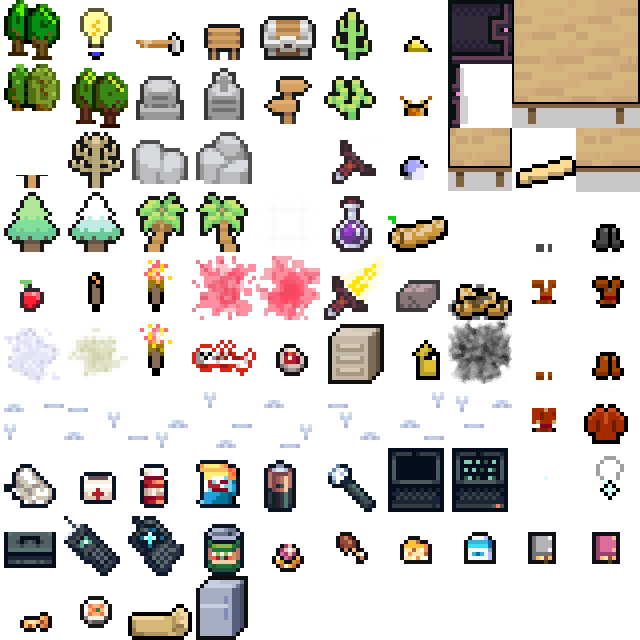
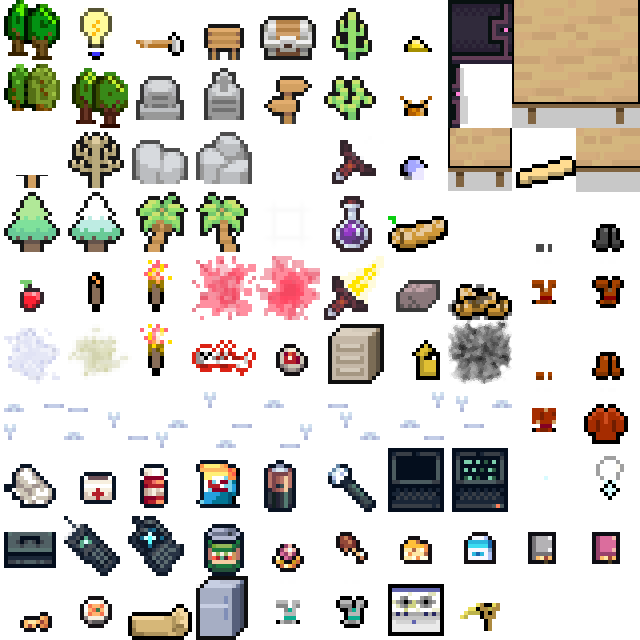
more AI

Changed region(s): [[0.5312, 0.9062, 0.7812, 1.0], [0.4375, 0.9375, 0.4688, 1.0]]

diff --git a/src/main/kotlin/actors/Ratman.kt b/src/main/kotlin/actors/Ratman.kt
@@ -2,7 +2,10 @@ package actors
 
 import actors.actions.Action
 import actors.actions.Wait
+import actors.states.Idle
 import actors.states.IdleInRoom
+import actors.states.Looting
+import actors.states.Seeking
 import actors.stats.Brains
 import actors.stats.Speed
 import actors.stats.Strength
@@ -11,7 +14,9 @@ import actors.stats.skills.Fight
 import audio.Speaker
 import kotlinx.serialization.Serializable
 import render.tilesets.Glyph
+import things.Cheese
 import things.Teeth
+import things.Thing
 import util.Dice
 
 @Serializable
@@ -38,12 +43,26 @@ class Ratman(
         "Ttthhhee rebelliouthh one!  Killl him!",
         "You dare to defy $wizardName?  Die!",
         "The ethhcaped thhlave!  He itthh here!",
-        "The penalty for escape is death!"
+        "The penalty for ethcape ith death!"
     )
     override fun talkSound(actor: Actor) = Speaker.SFX.RAT
     override fun meetPlayerMsg() = this.dnamec() + " says, \"" + converseLines().random() + "\""
-
+    fun findCheeseLines() = listOf(
+        "Arrgg cheethe!  I can't rethithht!",
+        "What?!  Cheethe rationth!",
+        "Unclaimed cheethe!  I'll take that."
+    )
 
     override fun idleState() = IdleInRoom()
 
+    override fun considerState() {
+        if (state !is Looting) {
+            val cheeses = entitiesSeen { it is Cheese }
+            if (cheeses.isNotEmpty()) {
+                val cheese = cheeses.keys.random()
+                pushState(Looting(cheese.xy()!!, (cheese as Thing).thingTag()))
+                say(findCheeseLines().random())
+            }
+        }
+    }
 }

diff --git a/src/main/kotlin/actors/states/Looting.kt b/src/main/kotlin/actors/states/Looting.kt
@@ -1,0 +1,55 @@
+package actors.states
+
+import actors.NPC
+import actors.actions.Action
+import actors.actions.Get
+import things.Thing
+import util.XY
+import util.hasOneWhere
+import util.log
+import world.level.Level
+import world.path.Pather
+
+// Trying to get a known seen item.
+class Looting(
+    val targetXY: XY,
+    val thingTag: String
+) : State() {
+
+    override fun enter(npc: NPC) {
+        Pather.subscribe(npc, npc, npc.visualRange())
+    }
+
+    override fun leave(npc: NPC) {
+        Pather.unsubscribe(npc, npc)
+    }
+
+    override fun considerState(npc: NPC) {
+        npc.apply {
+            if (!stillThere(level)) {
+                popState()
+            }
+        }
+    }
+
+    override fun pickAction(npc: NPC): Action {
+        npc.apply {
+            if (xy() == targetXY) {
+                log.info("found loot")
+                popState()
+                theThing(level)?.also { return Get(it) }
+            } else {
+                stepToward(targetXY)?.also { return it }
+            }
+            //popState()
+        }
+        return super.pickAction(npc)
+    }
+
+    private fun stillThere(level: Level?): Boolean =
+        level?.thingsAt(targetXY.x, targetXY.y)?.hasOneWhere { it.thingTag() == thingTag } ?: false
+
+    private fun theThing(level: Level?): Thing? =
+        level?.thingsAt(targetXY.x, targetXY.y)?.firstOrNull { it.thingTag() == thingTag }
+
+}

diff --git a/src/main/kotlin/actors/NPC.kt b/src/main/kotlin/actors/NPC.kt
@@ -19,6 +19,8 @@ sealed class NPC : Actor() {
     @Transient val hibernateRadius = 40f
 
     var state: State = Hibernated()
+    val stateStack = Stack<State>()
+
     var hostile = false
     var metPlayer = false
     val placeMemory = mutableMapOf<String,XY>()
@@ -73,9 +75,12 @@ sealed class NPC : Actor() {
             changeState(Hibernated())
         } else {
             val oldState = state
-            considerState()
+            statuses.forEach { it.considerState(this) }
             if (oldState == state) {
-                state.considerState(this)
+                considerState()
+                if (oldState == state) {
+                    state.considerState(this)
+                }
             }
         }
     }
@@ -89,6 +94,19 @@ sealed class NPC : Actor() {
         enterStateMsg(newState)?.also { Console.sayAct("", it, this) }
         log.info("NPC $this becomes $newState")
         newState.enter(this)
+    }
+
+    fun pushState(newState: State) {
+        stateStack.push(state)
+        changeState(newState)
+    }
+
+    fun popState() {
+        stateStack.pop()?.also {
+            changeState(it)
+        } ?: run {
+            changeState(idleState())
+        }
     }
 
     open fun enterStateMsg(newState: State): String? = when (newState) {

diff --git a/src/main/kotlin/world/cartos/LevelCarto.kt b/src/main/kotlin/world/cartos/LevelCarto.kt
@@ -46,13 +46,13 @@ class LevelCarto(
                 if (Dice.chance(0.6f)) {
                     addThing(Dice.range(room.x0, room.x1), Dice.range(room.y0, room.y1), if (Dice.chance(0.7f)) FilingCabinet() else Fridge())
                 }
-                if (Dice.chance(0.7f)) {
+                if (Dice.chance(0.1f)) {
                     Ratthing().spawnAt(level, Dice.range(room.x0, room.x1), Dice.range(room.y0, room.y1))
                 }
                 if (Dice.chance(0.4f) && building is WizardDungeon) {
                     Thrall(building.wizardName).spawnInRoom(level, room)
                 }
-                if (Dice.chance(0.1f) && building is WizardDungeon) {
+                if (Dice.chance(0.8f) && building is WizardDungeon) {
                     Ratman(building.wizardName).spawnInRoom(level, room)
                 }
 

diff --git a/src/main/kotlin/world/path/StepMap.kt b/src/main/kotlin/world/path/StepMap.kt
@@ -61,6 +61,10 @@ class StepMap() {
 
     fun setTargetToEntity(newTarget: Entity) {
         targetEntity = newTarget
+        val centerX = width / 2 + 1
+        val centerY = height / 2 + 1
+        offsetX = targetEntity!!.xy()!!.x - centerX
+        offsetY = targetEntity!!.xy()!!.y - centerY
         outOfDate = true
     }
 
@@ -164,7 +168,9 @@ class StepMap() {
         if (from == targetEntity) {
             val lx = to.x - offsetX
             val ly = to.y - offsetY
+            log.info("path $lx $ly")
             if (lx in 0 until width && ly in 0 until height) {
+                log.info("pathing to $to")
                 val feet = XY(lx, ly)
                 var step = map[feet.x][feet.y] -1
                 var foundDir: XY? = null

diff --git a/src/main/kotlin/actors/Player.kt b/src/main/kotlin/actors/Player.kt
@@ -65,22 +65,13 @@ open class Player : Actor() {
         Throw.set(this, 1f)
         Survive.set(this, 1f)
 
-        Sunsword().moveTo(this)
-        Torch().moveTo(this)
-        HornedHelmet().moveTo(this)
-        RiotHelmet().moveTo(this)
         Pickaxe().moveTo(this)
         Axe().moveTo(this)
         Lighter().moveTo(this)
-        TravelBoots().moveTo(this)
-        FurTunic().moveTo(this)
-        FurJacket().moveTo(this)
-        SabretoothCharm().moveTo(this)
         repeat (6) { Brick().moveTo(this) }
         Bedroll().moveTo(this)
         FirstAidKit().moveTo(this)
-        Bandages().moveTo(this)
-        BoysLife().moveTo(this)
+        repeat (4) { Cheese().moveTo(this) }
     }
 
     override fun die() {

diff --git a/src/main/kotlin/util/Stack.kt b/src/main/kotlin/util/Stack.kt
@@ -1,0 +1,24 @@
+package util
+
+import kotlinx.serialization.Serializable
+
+@Serializable
+class Stack<T> {
+
+    var top = 0
+    val elements = ArrayList<T>()
+
+    fun push(element: T) {
+        elements.add(element)
+    }
+
+    fun pop(): T? {
+        if (elements.isNotEmpty()) {
+            return elements.removeLast()
+        }
+        return null
+    }
+
+    fun isEmpty() = elements.isEmpty()
+    fun isNotEmpty() = elements.isNotEmpty()
+}

diff --git a/src/main/kotlin/world/path/Pather.kt b/src/main/kotlin/world/path/Pather.kt
@@ -2,6 +2,7 @@ package world.path
 
 import actors.Actor
 import actors.Player
+import actors.Ratman
 import kotlinx.coroutines.CoroutineScope
 import kotlinx.coroutines.Job
 import kotlinx.coroutines.delay
@@ -124,5 +125,5 @@ object Pather {
         }
     }
 
-    fun debugStepAt(x: Int, y: Int): Int = playerMap?.debugStepAt(x, y) ?: 0
+    fun debugStepAt(x: Int, y: Int): Int = maps.firstOrNull { it.targetEntity is Ratman }?.debugStepAt(x, y) ?: 0
 }

diff --git a/src/main/kotlin/actors/statuses/Status.kt b/src/main/kotlin/actors/statuses/Status.kt
@@ -1,6 +1,7 @@
 package actors.statuses
 
 import actors.Actor
+import actors.NPC
 import actors.Player
 import actors.actions.*
 import actors.actions.processes.WalkTo
@@ -67,6 +68,8 @@ sealed class Status : StatEffector {
     open fun onRemoveOtherMsg() = ""
 
     open fun preventedAction(action: Action, actor: Actor) = false
+
+    open fun considerState(npc: NPC) { }
 
     open fun panelInfo(): String {
         val effects = statEffects()

diff --git a/src/main/kotlin/actors/Actor.kt b/src/main/kotlin/actors/Actor.kt
@@ -460,6 +460,11 @@ sealed class Actor : Entity, ThingHolder, LightSource, Temporal {
         return null
     }
 
+    fun stepToward(xy: XY): Move? {
+        Pather.nextStep(this, xy)?.also { return Move(it) }
+        return null
+    }
+
     ///// useful utilities
 
     fun getActor(id: String) = level?.director?.actors?.firstOrNull { it.id == id }
